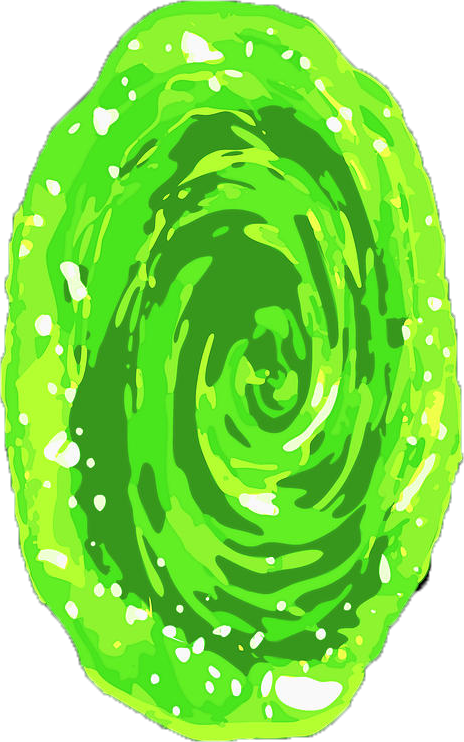
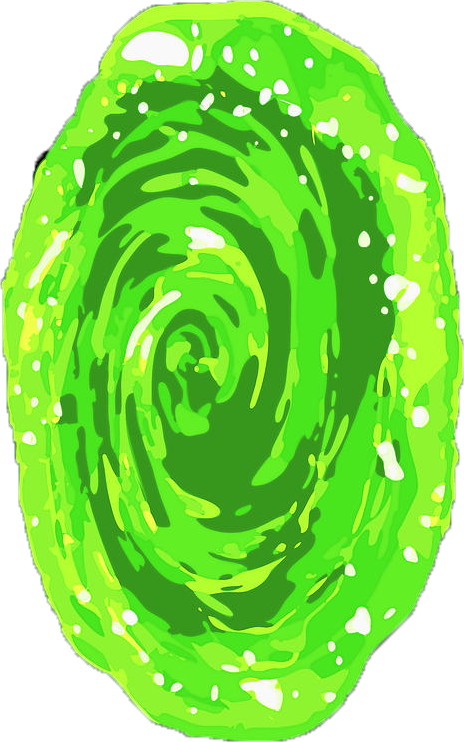
made portal img shakey

diff --git a/CSS/index.css b/CSS/index.css
@@ -66,6 +66,11 @@ main {
     width: 27vw;
 }
 
+.portal1 img:hover{
+    animation: shake 0.5s;
+    animation-iteration-count: infinite;
+}
+
 .character-text {
     grid-column: 7 / span 6;
     color: white;
@@ -105,14 +110,16 @@ main {
     justify-content: center;
 }
 
+
+.portal2 img:hover{
+    animation: shake 0.5s;
+    animation-iteration-count: infinite;
+}
+
 .portal2 img {
-    -webkit-transform:rotate(180deg);
-    -moz-transform: rotate(180deg);
-    -ms-transform: rotate(180deg);
-    -o-transform: rotate(180deg);
-    transform: rotate(180deg);
     width: 25vw;
 }
+
 
 .episodes-text {
     grid-column: 2 / span 5;
@@ -157,6 +164,11 @@ main {
 .portal3 img {
 
     width: 25vw;
+}
+
+.portal3 img:hover{
+    animation: shake 0.5s;
+    animation-iteration-count: infinite;
 }
 
 .locations-text {
@@ -208,3 +220,17 @@ main {
 .button_html:hover {
     background-color: green;
 }
+
+@keyframes shake {
+    0% { transform: translate(1px, 1px) rotate(0deg); }
+    10% { transform: translate(-1px, -2px) rotate(-1deg); }
+    20% { transform: translate(-3px, 0px) rotate(1deg); }
+    30% { transform: translate(3px, 2px) rotate(0deg); }
+    40% { transform: translate(1px, -1px) rotate(1deg); }
+    50% { transform: translate(-1px, 2px) rotate(-1deg); }
+    60% { transform: translate(-3px, 1px) rotate(0deg); }
+    70% { transform: translate(3px, 1px) rotate(-1deg); }
+    80% { transform: translate(-1px, -1px) rotate(1deg); }
+    90% { transform: translate(1px, 2px) rotate(0deg); }
+    100% { transform: translate(1px, -2px) rotate(-1deg); }
+  }

diff --git a/index.html b/index.html
@@ -44,7 +44,9 @@
         <section class="characters">
 
             <div class="portal1">
-                <img src="CSS/img/portal.png" alt="">
+                <a href="character.html">
+                    <img src="CSS/img/portal2.png" alt="">
+                </a>
             </div>
 
             <div class="character-text">
@@ -67,7 +69,9 @@
             </div>
 
             <div class="portal2">
-                <img src="CSS/img/portal.png" alt="">
+                <a href="episode.html">
+                    <img src="CSS/img/portal.png" alt="">
+                </a>
             </div>
 
         </section>
@@ -77,7 +81,9 @@
         <section class="locations">
 
             <div class="portal3">
-                <img src="CSS/img/portal.png" alt="">
+                <a href="location.html">
+                    <img src="CSS/img/portal2.png" alt="">
+                </a>
             </div>
 
             <div class="locations-text">
@@ -104,7 +110,7 @@
         <img src="CSS/img/logo.png" alt="logo" class="logo_footer">
 
         <div class="footer-right">
-            
+
             <a href="character.html">Characters</a>
             <a href="episode.html">Episodes</a>
             <a href="location.html">Locations</a>
